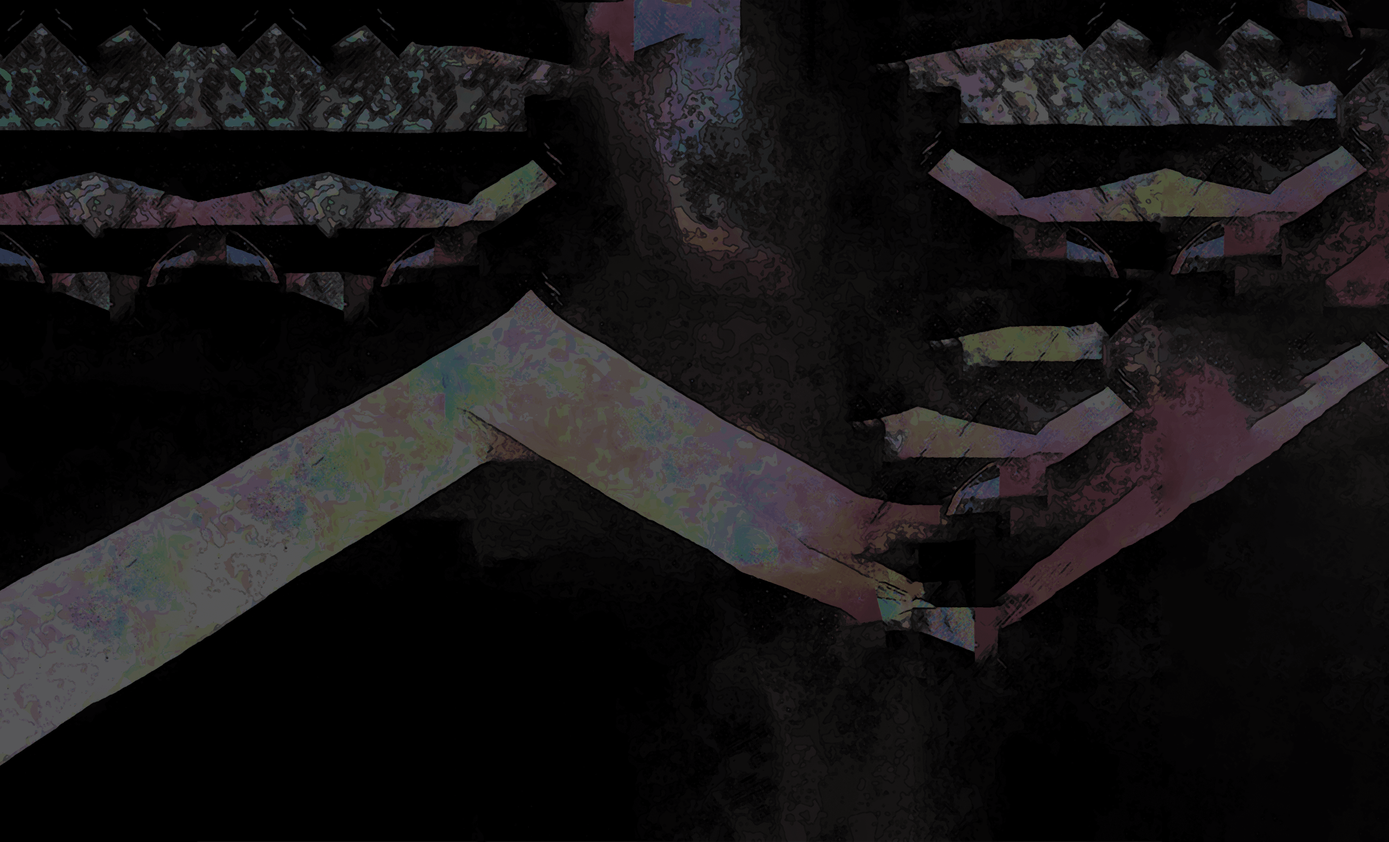
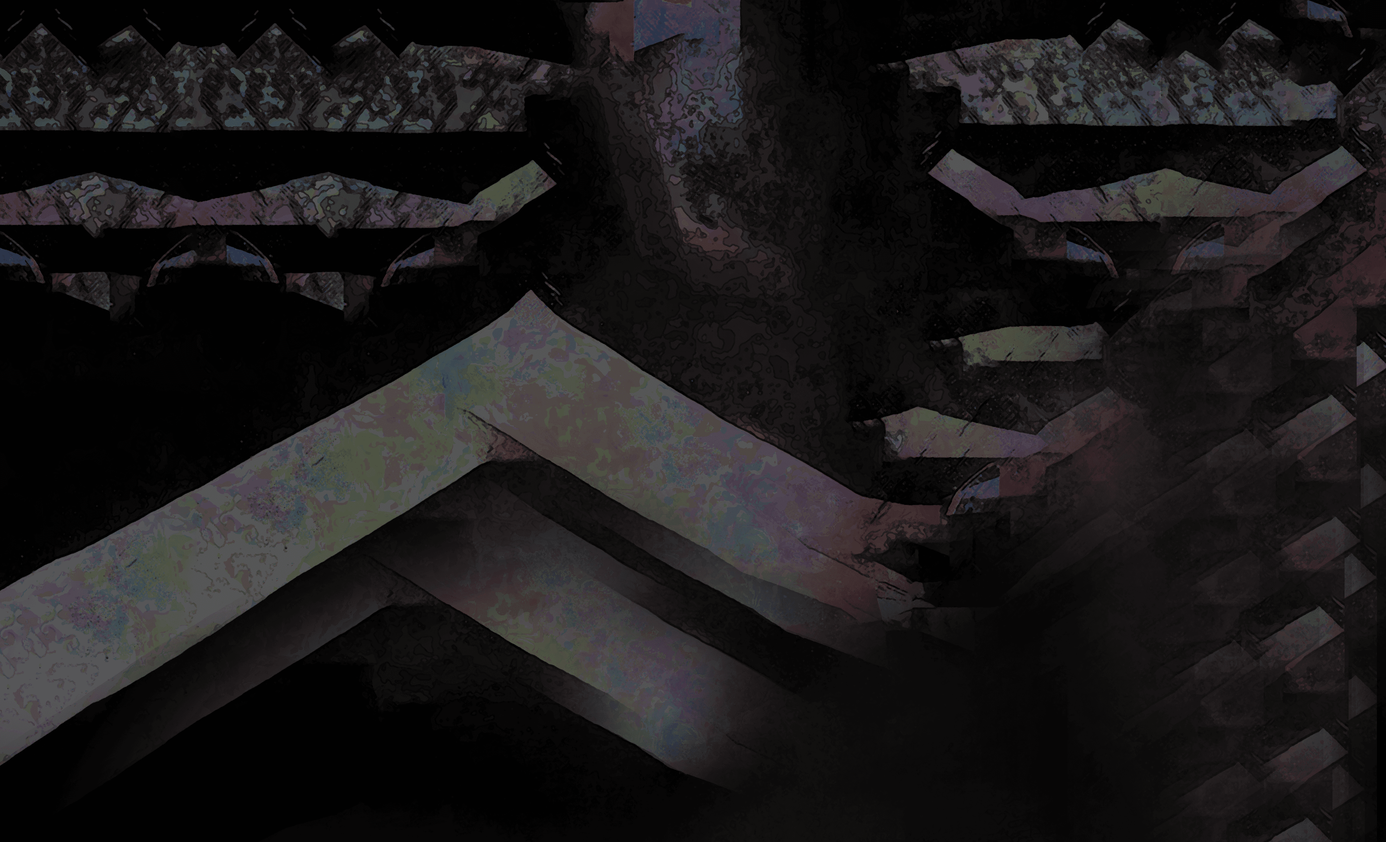
feat: Added first sketch for 'Projects'

diff --git a/src/app/app.component.html b/src/app/app.component.html
@@ -76,7 +76,7 @@
     <p class="font-extrabold text-center  text-white font-montserrat uppercase  text-5xl md:text-6xl">Projects</p>    
   </div>
 
-  <img loading="eager" src="../assets/img/second-content/bg_wide-test.png"
+  <img loading="eager" src="../assets/img/third-content/bg-wide.png"
     class="h-full w-full absolute scale-150 md:scale-100" />
 
   <div class="w-full z-10 mt-10 flex justify-center items-center">
@@ -84,38 +84,127 @@
     <div class="slide-container swiper w-full lg:w-[90vw] h-[60vh] max-h-[450px] max-w-[1300px] flex justify-center">
       <div class="slide-content w-[90vw] md:w-[85vw] lg:w-[75vw] xl:w-[60vw] max-h-[400px]">
           <div class="card-wrapper swiper-wrapper">
+
               <div class="card swiper-slide">
                   <div class="image-content">
                       <span class="overlay"></span>
 
                       <div class="card-image">
-                          <img src="https://portfolio-kaiogotya.s3.us-east-2.amazonaws.com/PICPAY-CHALLENGE.png" loading="eager" alt="" class="card-img">
+                          <img src="../assets/img/projects/sorvetescream.png" loading="eager" alt="" class="card-img">
                       </div>
                   </div>
 
                   <div class="card-content">
-                      <h2 class="name"> project name </h2>
-                      <p class="description">The lorem text the section that contains header with having open functionality. Lorem dolor sit amet consectetur adipisicing elit.</p>
+                      <h2 class="name"> Sorvete's Cream </h2>
+                      <p class="description font-montserrat">The lorem text the section that contains header with having open functionality. Lorem dolor sit amet consectetur adipisicing elit.</p>
 
-                      <button class="button">View More</button>
+                      <button class="button">Ver mais</button>
                   </div>
               </div>
+              
               <div class="card swiper-slide">
                   <div class="image-content">
                       <span class="overlay"></span>
 
                       <div class="card-image">
-                          <img src="https://portfolio-kaiogotya.s3.us-east-2.amazonaws.com/netflix.png" alt="" loading="eager" class="card-img">
+                          <img src="../assets/img/projects/hititharder.png" alt="" loading="eager" class="card-img">
                       </div>
                   </div>
 
                   <div class="card-content">
-                      <h2 class="name">project name </h2>
+                      <h2 class="name">Hit it Harder </h2>
                       <p class="description">The lorem text the section that contains header with having open functionality. Lorem dolor sit amet consectetur adipisicing elit.</p>
 
-                      <button class="button">View More</button>
+                      <button class="button">Ver mais</button>
                   </div>
               </div>
+
+              <div class="card swiper-slide">
+                  <div class="image-content">
+                      <span class="overlay"></span>
+
+                      <div class="card-image">
+                          <img src="../assets/img/projects/tgapp.png" alt="" loading="eager" class="card-img">
+                      </div>
+                  </div>
+
+                  <div class="card-content">
+                      <h2 class="name"> Tiro de Guerra </h2>
+                      <p class="description">The lorem text the section that contains header with having open functionality. Lorem dolor sit amet consectetur adipisicing elit.</p>
+
+                      <button class="button">Ver mais</button>
+                  </div>
+              </div>
+
+              <div class="card swiper-slide">
+                  <div class="image-content">
+                      <span class="overlay"></span>
+
+                      <div class="card-image">
+                          <img src="../assets/img/projects/taskmanagement.png" alt="" loading="eager" class="card-img">
+                      </div>
+                  </div>
+
+                  <div class="card-content">
+                      <h2 class="name">Task Management </h2>
+                      <p class="description">The lorem text the section that contains header with having open functionality. Lorem dolor sit amet consectetur adipisicing elit.</p>
+
+                      <button class="button">Ver mais</button>
+                  </div>
+              </div>
+               
+              <div class="card swiper-slide">
+                <div class="image-content">
+                    <span class="overlay"></span>
+
+                    <div class="card-image">
+                        <img src="../assets/img/projects/gotyabank.png" alt="" loading="eager" class="card-img">
+                    </div>
+                </div>
+
+                <div class="card-content">
+                    <h2 class="name">GotyaBank </h2>
+                    <p class="description">The lorem text the section that contains header with having open functionality. Lorem dolor sit amet consectetur adipisicing elit.</p>
+
+                    <button class="button">Ver mais</button>
+                </div>
+            </div>
+     
+            <div class="card swiper-slide">
+                <div class="image-content">
+                    <span class="overlay"></span>
+
+                    <div class="card-image">
+                        <img src="../assets/img/projects/valinor.png" alt="" loading="eager" class="card-img">
+                    </div>
+                </div>
+
+                <div class="card-content">
+                    <h2 class="name">Valinor </h2>
+                    <p class="description">The lorem text the section that contains header with having open functionality. Lorem dolor sit amet consectetur adipisicing elit.</p>
+
+                    <button class="button">Ver mais</button>
+                </div>
+            </div>
+        
+            <div class="card swiper-slide">
+                <div class="image-content">
+                    <span class="overlay"></span>
+
+                    <div class="card-image">
+                        <img src="../assets/img/projects/github.png" alt="" loading="eager" class="card-img">
+                    </div>
+                </div>
+
+                <div class="card-content">
+                    <h2 class="name">GitHub Repositories </h2>
+                    <p class="description">The lorem text the section that contains header with having open functionality. Lorem dolor sit amet consectetur adipisicing elit.</p>
+
+                    <button class="button">Ver mais</button>
+                </div>
+            </div>
+
+
              
           </div>
       </div>
@@ -139,7 +228,7 @@
 
 <div id="contact" class="w-full h-auto bg-gray-500 relative overflow-hidden flex flex-col justify-center items-center">
 
-  <img loading="eager" src="../assets/img/second-content/bg_wide-test.png"
+  <img loading="eager" src="../assets/img/contact/bg-wide.png"
     class="h-full w-full absolute scale-150 md:scale-100" />
 
   <p
